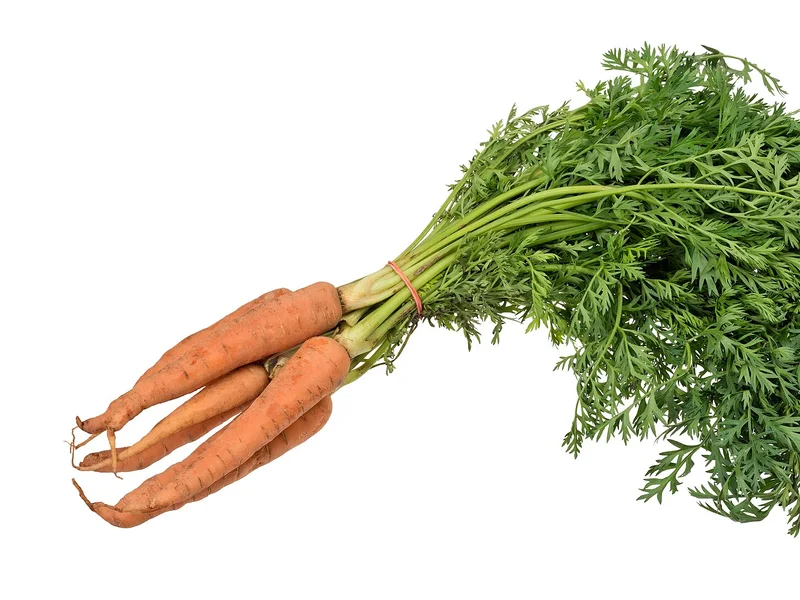
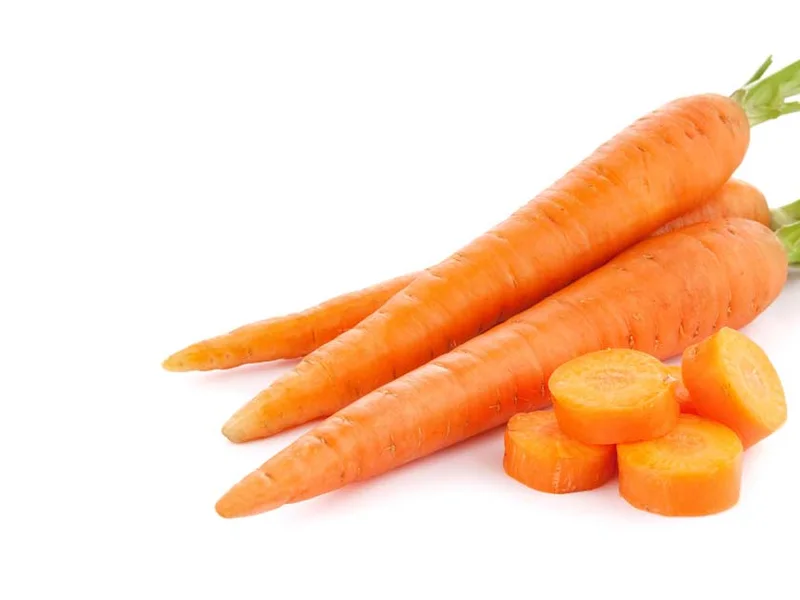
fix(guias): fotos de batata, abacate e cenoura mais limpas e no padrao da loja

diff --git a/src/data/fotos-creditos.ts b/src/data/fotos-creditos.ts
@@ -22,10 +22,10 @@ export const CREDITOS_FOTOS: CreditoFoto[] = [
   },
   {
     "chave": "abacate-2",
-    "arquivo": "Avocado Hass - single and halved.jpg",
-    "autor": "Ivar Leidus",
-    "licenca": "CC BY-SA 4.0",
-    "pagina": "https://commons.wikimedia.org/wiki/File:Avocado_Hass_-_single_and_halved.jpg"
+    "arquivo": "Persea americana from Canadian supermarket.jpg",
+    "autor": "Wilfredor",
+    "licenca": "CC0",
+    "pagina": "https://commons.wikimedia.org/wiki/File:Persea_americana_from_Canadian_supermarket.jpg"
   },
   {
     "chave": "abacate-3",
@@ -99,10 +99,10 @@ export const CREDITOS_FOTOS: CreditoFoto[] = [
   },
   {
     "chave": "batata-2",
-    "arquivo": "Irish potatoes 01.jpg",
-    "autor": "Ssemmanda will",
+    "arquivo": "Potato cv Dejima.jpg",
+    "autor": "Fk",
     "licenca": "CC BY-SA 4.0",
-    "pagina": "https://commons.wikimedia.org/wiki/File:Irish_potatoes_01.jpg"
+    "pagina": "https://commons.wikimedia.org/wiki/File:Potato_cv_Dejima.jpg"
   },
   {
     "chave": "batata-3",
@@ -127,10 +127,10 @@ export const CREDITOS_FOTOS: CreditoFoto[] = [
   },
   {
     "chave": "cenoura-1",
-    "arquivo": "Vegetable-Carrot-Bundle-wStalks.jpg",
-    "autor": "Evan-Amos",
-    "licenca": "Public domain",
-    "pagina": "https://commons.wikimedia.org/wiki/File:Vegetable-Carrot-Bundle-wStalks.jpg"
+    "arquivo": "Carrot-fb.jpg",
+    "autor": "Collegestudent33",
+    "licenca": "CC BY-SA 4.0",
+    "pagina": "https://commons.wikimedia.org/wiki/File:Carrot-fb.jpg"
   },
   {
     "chave": "cenoura-2",

diff --git a/src/lib/fotos.ts b/src/lib/fotos.ts
@@ -11,7 +11,7 @@
  * **Toda vez que uma foto for substituída** (por outra de mesmo nome), suba
  * este número.
  */
-export const VERSAO_FOTOS = 2;
+export const VERSAO_FOTOS = 3;
 
 /** Caminho da foto com a versão (bustador de cache). */
 export function fotoVersionada(src: string): string {
